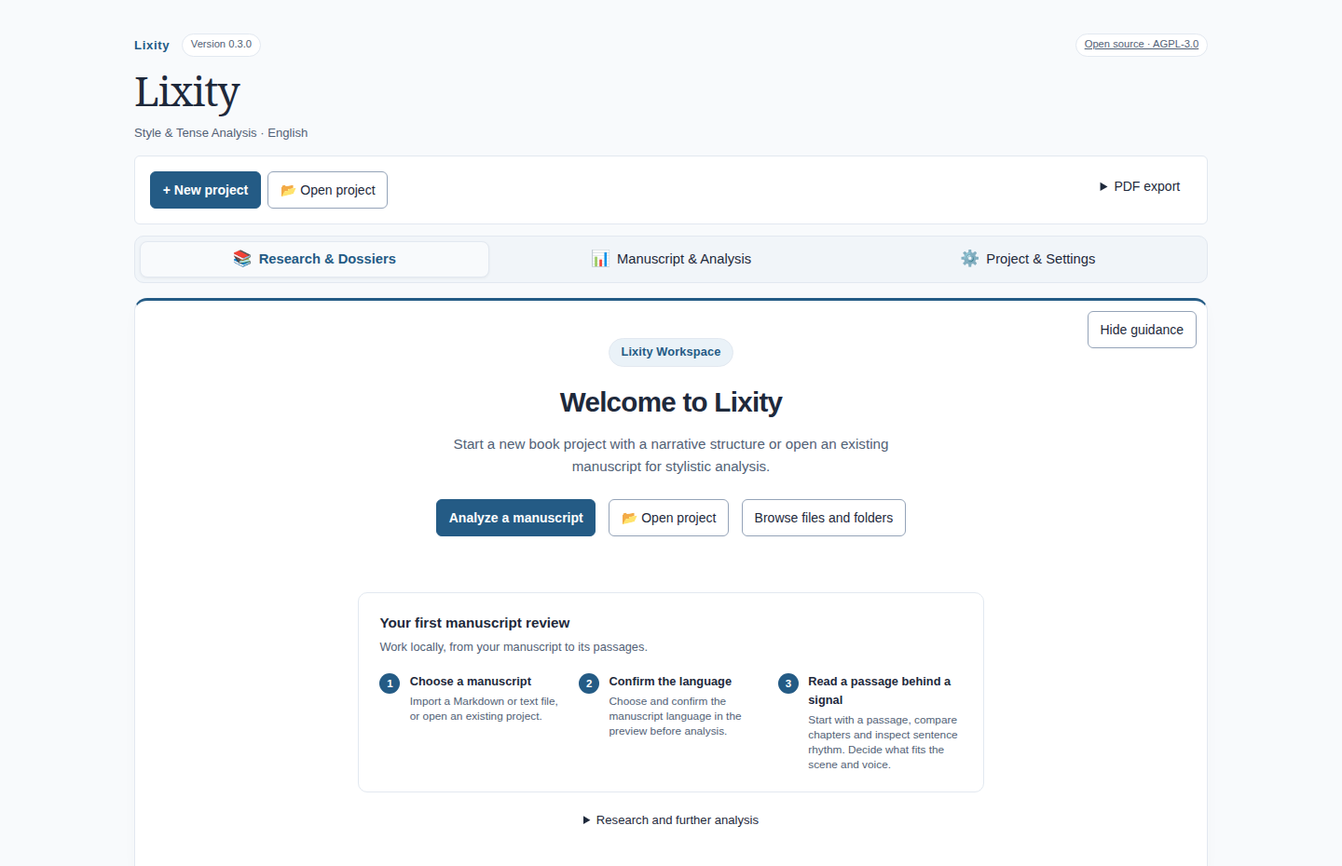
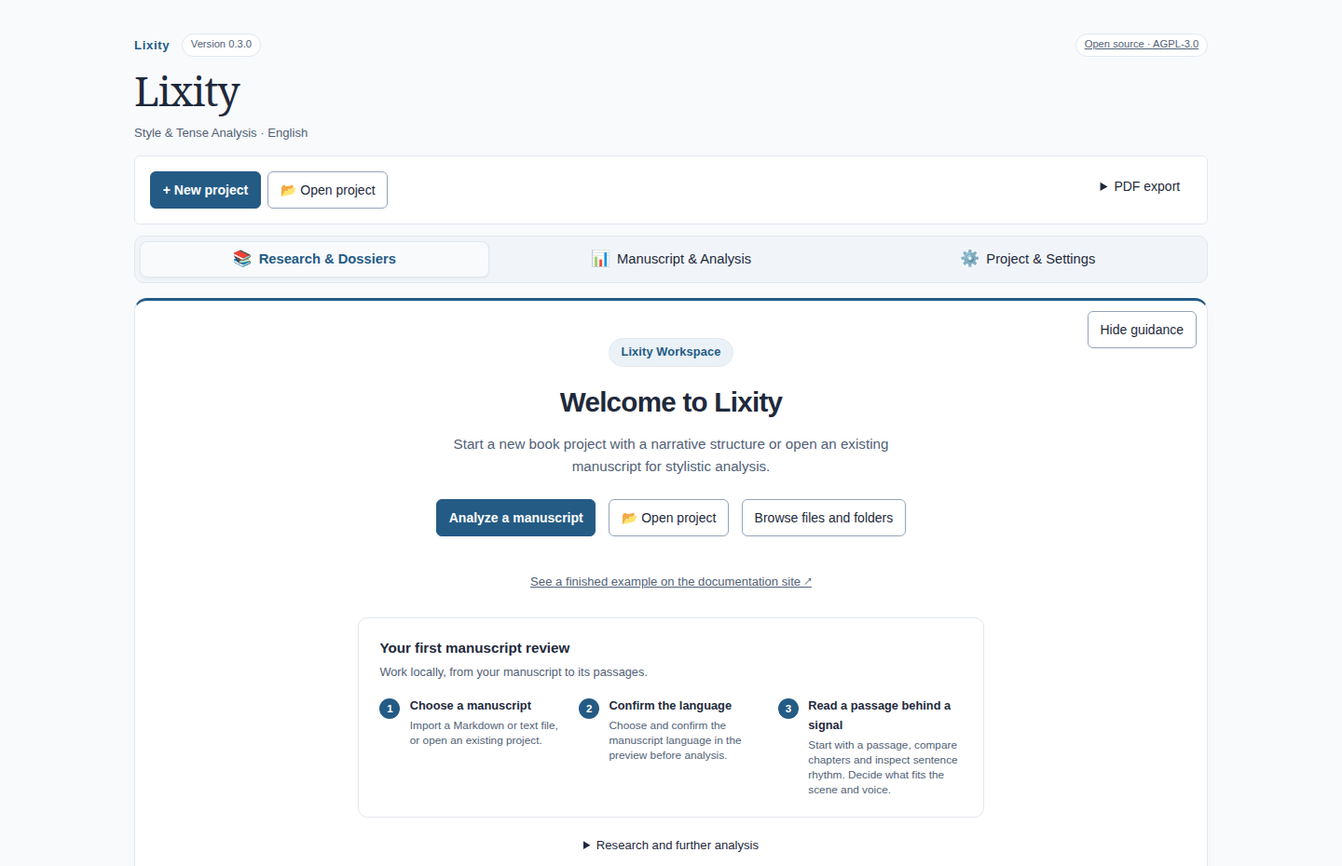
docs: refresh the product presentation and the user journey
- The welcome hero links the matching public-domain example (German or
  English) on the documentation site; standalone read-only reports stay
  link-free.
- ONBOARDING becomes a journey: a stage map, the finished-example stage,
  the editorial loop (flagged passages, values, marker note) and the
  Review-tab manuscript associations; the installation guide lists the
  first-session steps.
- ARCHITECTURE documents the first-run journey contract (reload and
  default view, browser-local recents, link-free standalone reports).
- README, landing page and guides link the complete example PDFs and the
  new walkthrough; guide dates and sitemap lastmod are updated.

Changed region(s): [[0.2812, 0.7172, 0.7188, 0.9355], [0.4375, 0.9355, 0.5625, 0.9978], [0.375, 0.6548, 0.5938, 0.686]]

diff --git a/docs/guides/research-pdf.html b/docs/guides/research-pdf.html
@@ -43,7 +43,7 @@
     "name": "Lixity",
     "url": "https://mfahsold.github.io/lixity/"
   },
-  "dateModified": "2026-10-13",
+  "dateModified": "2026-10-14",
   "license": "https://github.com/mfahsold/lixity/blob/main/LICENSE"
 }
 </script>
@@ -95,7 +95,7 @@
 <a href="../">Lixity · Documentation</a>
 <h1>Keep sources and work with PDFs</h1>
 <p>Keep permitted source copies, cite exact passages and connect them with research notes, claims and writing decisions. Lixity's research workspace is experimental. An import or citation helps you review evidence; it does not establish that a claim is true.</p>
-<p class="updated">Maintained by the Lixity project · Updated <time datetime="2026-10-12">12 October 2026</time></p>
+<p class="updated">Maintained by the Lixity project · Updated <time datetime="2026-10-14">14 October 2026</time></p>
 <nav class="guide-nav" aria-label="Guides"><a href="first-look.html">First look</a><a href="installation.html">Installation</a><a href="interpretation.html">Interpret results</a><a href="manuscript-analysis-tools.html">Compare tools</a><a href="research-pdf.html" aria-current="page">Sources and PDF/OCR</a></nav>
 <div class="notice-box"><strong>Before importing:</strong> Choose the intended project and confirm that you may keep the source bytes. Text PDFs need Poppler; image-only scans need local Tesseract or a configured OCR worker. See <a href="installation.html#install">installation</a> and <a href="#ocr">PDF requirements</a>.</div>
 
@@ -189,7 +189,7 @@ lixity research link urn:uuid:YOUR-PASSAGE-UUID urn:uuid:YOUR-CLAIM-UUID --relat
 
 <h2 id="manuscript-claims">Associate manuscript text with a claim</h2>
 <p><strong>Since v0.3.0:</strong> select text within one opened manuscript paragraph, choose <strong>Link selection to claim</strong>, choose a current claim, permit local retention of the quote and select <strong>Save association</strong>. Previewing writes nothing. Saving keeps a manual association to the exact claim version, with the quote and paragraph anchor; it does not import the complete manuscript or edit prose.</p>
-<p>Exact resolved quotes are marked when their paragraph opens. Changed text or claim versions request review; moved or ambiguous paragraphs remain unresolved. These flags do not establish a contradiction or factual support. Both dossier readers show current linked claims with saved-version history and active saved quote counts. Zero saved links does not establish that a claim is unused in prose.</p>
+<p>Exact resolved quotes are marked when their paragraph opens. Changed text or claim versions request review; moved or ambiguous paragraphs remain unresolved. Saved associations are listed in the research <strong>Review</strong> tab with their anchor state and review flags; listing them never writes or repins. These flags do not establish a contradiction or factual support. Both dossier readers show current linked claims with saved-version history and active saved quote counts. Zero saved links does not establish that a claim is unused in prose.</p>
 <div class="notice-box"><strong>Before the first save:</strong> back up the archive. Retention-confirmed manuscript links opt storage into v7, supported by v0.3.0 but not historical v3.0.1. The lower product number describes development maturity; archive and response schemas keep independent versions. Exported quotes remain private manuscript material. See <a href="../research/USAGE.md#associate-a-manuscript-quote-with-a-claim">anchoring, retention and compatibility</a>.</div>
 <h2 id="ocr">Can Lixity read scanned PDFs?</h2>
 <p>A PDF with selectable text can use local Poppler tools. An image-only scan needs locally installed Tesseract or a configured OCR worker to recognize text. Installing Lixity does not install either engine, download a model or start a worker service.</p>

diff --git a/docs/index.html b/docs/index.html
@@ -176,13 +176,16 @@
     <article class="feature" id="editorial-matrix">
       <div class="feature-copy">
         <h2>Keep review notes beside the text</h2>
-        <p>Inspect paragraphs with their source lines, dialogue and tense labels. Work markers keep notes next to the passage you want to revisit.</p>
-        <p>Markers remain editable in Markdown. Their visibility in a book export depends on the editor or converter you use.</p>
+        <p>Start from the flagged passages list. Open a paragraph to read its measured values, source lines and tense labels, then write a note directly on the passage.</p>
+        <p>Work markers keep notes next to the passage you want to revisit and remain editable in Markdown. Their visibility in a book export depends on the editor or converter you use.</p>
         <a href="USAGE.md#work-markers-editor-visible">Use work markers</a>
       </div>
-      <figure class="shot">
-        <a href="screenshots/dashboard-markers.png"><img src="screenshots/dashboard-markers.png" width="1152" height="306" alt="Review markers linked to passages, with statuses and an editable note" loading="lazy" decoding="async"/></a>
-        <figcaption>Illustrative review notes. <a href="screenshots/dashboard-layer.png">Open the paragraph view</a>.</figcaption>
+      <figure class="shot feature-media">
+        <video autoplay muted loop playsinline preload="metadata" poster="videos/editorial-loop.png" width="1280" height="800" aria-label="Animated walkthrough: flagged passages, an opened paragraph with its measured values and a note written on the passage">
+          <source src="videos/editorial-loop.mp4" type="video/mp4"/>
+        </video>
+        <a class="still-only" href="screenshots/dashboard-editorial.png"><img src="screenshots/dashboard-editorial.png" width="1110" height="226" alt="An opened paragraph with its measured values, source line and the note editor for a work marker" loading="lazy" decoding="async"/></a>
+        <figcaption>Watch the editorial loop: flagged passage, paragraph values, note. <a href="screenshots/dashboard-flags.png">Flagged passages</a> · <a href="screenshots/dashboard-markers.png">Marker list</a> · <a href="screenshots/dashboard-layer.png">Paragraph view</a>.</figcaption>
       </figure>
     </article>
 
@@ -227,6 +230,7 @@
         <p>Export an A4 analysis report, an A5 reading copy or an A4 submission sheet with <code>lixity pdf</code>. Fonts are embedded and the text stays searchable; the renderer provides reading layouts without PDF/X production preflight. <a href="USAGE.md#lixity-pdf">Choose a PDF layout</a>.</p>
         <p><strong>Since v0.3.0:</strong> open the collapsed <strong>PDF export</strong> menu above all three workspace views. Choose a layout, then <strong>Download PDF</strong>. <a href="guides/research-pdf.html#manuscript-export">Find the manuscript PDF workflow</a>.</p>
         <p><strong>Since v0.3.0:</strong> optional <strong>Publication</strong> fields stay collapsed in Project → Settings and feed the same A5 composer as the CLI. Entered imprint text, PDF metadata, bookmarks and page headers help prepare a reading copy. <a href="guides/research-pdf.html#publication">Read the publication workflow and Germany print/digital limits</a>.</p>
+        <p>See a complete report: <a href="examples/effi-briest-report.pdf">Effi Briest</a> and <a href="examples/pride-and-prejudice-report.pdf">Pride and Prejudice</a> ship as public-domain example PDFs next to their interactive dashboards.</p>
         <p>For software integration, use JSON output or the Python API. Both share the dashboard's analysis pipeline.</p>
         <a href="USAGE.md">Browse the command reference</a>
       </div>

diff --git a/docs/guides/installation.html b/docs/guides/installation.html
@@ -43,7 +43,7 @@
     "name": "Lixity",
     "url": "https://mfahsold.github.io/lixity/"
   },
-  "dateModified": "2026-10-13",
+  "dateModified": "2026-10-14",
   "license": "https://github.com/mfahsold/lixity/blob/main/LICENSE"
 }
 </script>
@@ -80,7 +80,7 @@
 <a href="../">Lixity · Documentation</a>
 <h1>Install Lixity and open a manuscript locally</h1>
 <p>Explore sentence rhythm, vocabulary and style patterns in your Markdown manuscript. Lixity runs its analysis on your computer and saves a dashboard you can open in a browser. No account or manuscript upload is required.</p>
-<p class="updated">Maintained by the Lixity project · Updated <time datetime="2026-10-11">11 October 2026</time></p>
+<p class="updated">Maintained by the Lixity project · Updated <time datetime="2026-10-14">14 October 2026</time></p>
 <nav class="guide-nav" aria-label="Guides"><a href="first-look.html">First look</a><a href="installation.html" aria-current="page">Installation</a><a href="interpretation.html">Interpret results</a><a href="manuscript-analysis-tools.html">Compare tools</a><a href="research-pdf.html">Sources and PDF/OCR</a></nav>
 
 <h2 id="requirements">What do I need?</h2>
@@ -102,6 +102,13 @@ lixity service start --open</code></pre>
 
 <h2 id="first-dashboard">Start the workspace</h2>
 <p>The managed app opens <code>http://127.0.0.1:8765/</code>. Its default is an empty workspace; it does not search your terminal's current folder. Choose <strong>Open Project</strong> for an existing folder or <strong>Analyze a manuscript</strong> for an import preview. Confirm the language and read a passage before interpreting its measurements.</p>
+<ol>
+<li>Choose <strong>Analyze a manuscript</strong> (or <strong>New Project</strong>) and confirm the preview: title, analysis language and optional author name.</li>
+<li>Read the <strong>Start your review</strong> panel first: <strong>Open passage</strong>, <strong>Explore chapters</strong> or <strong>Open sentence rhythm</strong>.</li>
+<li>Work from a flagged passage or open any paragraph, expand <strong>Values</strong> and write a marker note if something needs another look.</li>
+<li>Export the result with <strong>PDF export</strong>: A5 reading copy, A4 manuscript sheets or the A4 analysis report.</li>
+</ol>
+<p>The <a href="../ONBOARDING.md">first-session guide</a> describes every stage, and the <a href="https://mfahsold.github.io/lixity/examples/effi-briest.html">public-domain examples</a> show a finished analysis without installation.</p>
 <details><summary>Generate an offline HTML report instead</summary>
 <p>Save this synthetic text as <code>sample.md</code>. Two short chapters are sufficient to exercise the workflow, but not to establish a reliable stylistic baseline.</p>
 <pre><code>## Chapter 1

diff --git a/docs/guides/manuscript-analysis-tools.html b/docs/guides/manuscript-analysis-tools.html
@@ -43,7 +43,7 @@
     "name": "Lixity",
     "url": "https://mfahsold.github.io/lixity/"
   },
-  "dateModified": "2026-10-13",
+  "dateModified": "2026-10-14",
   "license": "https://github.com/mfahsold/lixity/blob/main/LICENSE"
 }
 </script>
@@ -128,7 +128,7 @@
 <a href="../">Lixity · Documentation</a>
 <h1>Which manuscript analysis tool fits your work?</h1>
 <p>Four families of tools answer different questions about a manuscript. This page compares them by workflow: what each is good at, what it does not do, and where Lixity fits. None of them replaces an editor, and none of the descriptions below rank the tools against each other.</p>
-<p class="updated">Maintained by the Lixity project · Updated <time datetime="2026-10-13">13 October 2026</time></p>
+<p class="updated">Maintained by the Lixity project · Updated <time datetime="2026-10-14">14 October 2026</time></p>
 <nav class="guide-nav" aria-label="Guides"><a href="first-look.html">First look</a><a href="installation.html">Installation</a><a href="interpretation.html">Interpret results</a><a href="manuscript-analysis-tools.html" aria-current="page">Compare tools</a><a href="research-pdf.html">Sources and PDF/OCR</a></nav>
 
 <h2 id="families">The four families at a glance</h2>
@@ -161,7 +161,7 @@
 
 <h2 id="lixity">Choose Lixity if…</h2>
 <p>…you want to see how <em>your</em> manuscript behaves over its chapters and keep the evidence next to your decisions: sentence rhythm, vocabulary, dialogue and tense; chapter comparisons against the book's own baseline; passages behind every signal; and a local research archive that ties sources and quotations to claims and writing decisions. Analysis runs on your computer, there is no account, and nothing is uploaded. German and English are the deepest language profiles.</p>
-<p>Start with the <a href="../demo/report.html">read-only example report</a> or the <a href="first-look.html">three-minute first look</a>; no installation is needed for either.</p>
+<p>Start with the <a href="../demo/report.html">read-only example report</a> or the <a href="first-look.html">three-minute first look</a>; no installation is needed for either. For a real book, the <a href="../examples/effi-briest.html">Effi Briest</a> (German) and <a href="../examples/pride-and-prejudice.html">Pride and Prejudice</a> (English) examples pair an interactive excerpt with the complete PDF report.</p>
 
 <h2 id="limits">Where Lixity does not fit</h2>
 <ul>

diff --git a/docs/guides/first-look.html b/docs/guides/first-look.html
@@ -44,7 +44,7 @@
     "name": "Lixity",
     "url": "https://mfahsold.github.io/lixity/"
   },
-  "dateModified": "2026-10-13",
+  "dateModified": "2026-10-14",
   "license": "https://github.com/mfahsold/lixity/blob/main/LICENSE"
 }
 </script>
@@ -81,7 +81,7 @@
 <a href="../">Lixity · Documentation</a>
 <h1>A three-minute first look</h1>
 <p>Follow a chapter contrast back to the text, then make your own editorial decision. This short walkthrough is for authors and editors who want to see what Lixity can help them notice.</p>
-<p class="updated">Maintained by the Lixity project · Updated <time datetime="2026-10-10">10 October 2026</time></p>
+<p class="updated">Maintained by the Lixity project · Updated <time datetime="2026-10-14">14 October 2026</time></p>
 <nav class="guide-nav" aria-label="Guides"><a href="first-look.html" aria-current="page">First look</a><a href="installation.html">Installation</a><a href="interpretation.html">Interpret results</a><a href="manuscript-analysis-tools.html">Compare tools</a><a href="research-pdf.html">Sources and PDF/OCR</a></nav>
 
 <h2 id="maker">Used while writing a debut novel</h2>
@@ -91,6 +91,7 @@
 <p>The report follows six short fictional chapters about a night shift at a river signal house. Description, action, dialogue and a formal incident note give you different kinds of prose to explore.</p>
 <p><a class="btn primary" href="../demo/report.html">Open the example report</a></p>
 <p>This is a read-only report generated by Lixity; its software version is shown in the report header. It accepts no uploads and saves no edits. You can explore it without installing software, starting a server or signing up.</p>
+<p>For a real book, the <a href="../examples/effi-briest.html">Effi Briest example</a> (German, with a <a href="../examples/effi-briest-report.pdf">complete PDF report</a>) and the <a href="../examples/pride-and-prejudice.html">Pride and Prejudice example</a> (English) show the same report on a public-domain novel.</p>
 <p>Enable JavaScript for paragraph expansion, filters and the interactive chart. Paragraph text, chapter tables and links remain readable without it.</p>
 <figure class="walkthrough">
   <video controls muted loop playsinline preload="metadata" poster="../videos/analysis-review.png" width="1280" height="800">

diff --git a/src/lixity/ui/assets/dashboard.css b/src/lixity/ui/assets/dashboard.css
@@ -1365,6 +1365,8 @@ textarea.ctl { font-family: inherit; }
   letter-spacing: -.025em;
   color: var(--fg);
 }
+.welcome-example { margin: .35rem 0 0; font-size: var(--text-small); }
+.welcome-example a { color: var(--muted); text-decoration: underline; }
 .welcome-desc {
   color: var(--muted);
   font-size: .95rem;

diff --git a/src/lixity/workspace_labels.py b/src/lixity/workspace_labels.py
@@ -205,6 +205,7 @@ _ROWS = {
     "welcome_dismiss": ("Hide guidance", "Hinweise ausblenden", "Masquer les conseils", "Ocultar guía", "Nascondi la guida", "Ocultar orientação", "Uitleg verbergen"),
     "welcome_show": ("Show guidance", "Hinweise anzeigen", "Afficher les conseils", "Mostrar guía", "Mostra la guida", "Mostrar orientação", "Uitleg tonen"),
     "welcome_quickstart": ("Your first manuscript review", "Die erste Manuskriptprüfung", "Votre première lecture du manuscrit", "La primera revisión del manuscrito", "La prima revisione del manoscritto", "A primeira revisão do manuscrito", "De eerste manuscriptverkenning"),
+    "welcome_example": ("See a finished example on the documentation site", "Ein fertiges Beispiel auf der Dokumentationsseite ansehen", "Voir un exemple terminé sur le site de documentation", "Ver un ejemplo terminado en el sitio de documentación", "Vedi un esempio completo sul sito di documentazione", "Ver um exemplo completo no site de documentação", "Bekijk een volledig voorbeeld op de documentatiesite"),
     "welcome_local": ("Work locally, from your manuscript to its passages.", "Lokal vom Manuskript zur konkreten Textstelle.", "Travaillez localement, du manuscrit à ses passages.", "Trabaje localmente, del manuscrito a sus pasajes.", "Lavora localmente, dal manoscritto ai suoi passaggi.", "Trabalhe localmente, do manuscrito aos seus trechos.", "Werk lokaal, van het manuscript naar de passages."),
     "welcome_manuscript": ("Choose a manuscript", "Manuskript auswählen", "Choisir un manuscrit", "Elegir un manuscrito", "Scegliere un manoscritto", "Escolher um manuscrito", "Een manuscript kiezen"),
     "welcome_manuscript_desc": ("Import a Markdown or text file, or open an existing project.", "Markdown- oder Textdatei importieren oder ein vorhandenes Projekt öffnen.", "Importez un fichier Markdown ou texte, ou ouvrez un projet existant.", "Importe un archivo Markdown o de texto, o abra un proyecto existente.", "Importa un file Markdown o di testo, oppure apri un progetto esistente.", "Importe um arquivo Markdown ou de texto, ou abra um projeto existente.", "Importeer een Markdown- of tekstbestand, of open een bestaand project."),

diff --git a/src/lixity/ui/dashboard.py b/src/lixity/ui/dashboard.py
@@ -392,6 +392,16 @@ def render_dashboard(
                 f'      <button type="button" class="ctl welcome-btn" id="hero-btn-browse-project">{L("wizard_choose_action")}</button>'
             )
             parts.append("    </div>")
+            # The public examples lower the barrier of the first step: they show a
+            # finished report without importing a manuscript. The analysis
+            # language selects the matching public-domain book.
+            example = ("examples/effi-briest.html" if language_key == "de"
+                       else "examples/pride-and-prejudice.html")
+            parts.append(
+                '    <p class="welcome-example"><a href='
+                f'"https://mfahsold.github.io/lixity/{example}" target="_blank" rel="noopener">'
+                f'{L("welcome_example")} ↗</a></p>'
+            )
             parts.append(
                 '    <section id="welcome-project-recent" data-recent-projects hidden aria-labelledby="welcome-project-recent-heading">'
             )

diff --git a/tests/test_localization.py b/tests/test_localization.py
@@ -94,6 +94,7 @@ class TestLocalization(unittest.TestCase):
                 )
                 self.assertEqual(parser.labels["ctx_provenance_note"], labels["ctx_provenance_note"])
                 for key in ("research_tab_claims", "wizard_import_tab", "wizard_open_note",
+                    "welcome_example",
                             "wizard_choose_action", "welcome_dismiss", "welcome_show"):
                     self.assertTrue(escape(labels[key]) in rendered, key)
                 self.assertIn(f'<p class="ctl-note">{escape(labels["wizard_choose_location"])}</p>', rendered)

diff --git a/README.md b/README.md
@@ -30,8 +30,12 @@ results in German, English, French, Spanish, Italian, Portuguese or Dutch.
 No statistics background is needed, and nothing is uploaded: analysis runs on
 your computer.
 
-1. **Look at the example.** The [read-only report](https://mfahsold.github.io/lixity/demo/report.html)
-   opens directly in the browser and is made from invented text.
+1. **Look at an example.** The [read-only synthetic report](https://mfahsold.github.io/lixity/demo/report.html)
+   opens directly in the browser and is made from invented text. For real books,
+   the [Effi Briest example](https://mfahsold.github.io/lixity/examples/effi-briest.html)
+   (German) and the [Pride and Prejudice example](https://mfahsold.github.io/lixity/examples/pride-and-prejudice.html)
+   (English) show an interactive excerpt of a public-domain novel next to its
+   complete PDF report.
 2. **See what the numbers mean.** The [three-minute first look](https://mfahsold.github.io/lixity/guides/first-look.html)
    walks through chapter comparison, a passage and its measurements.
 3. **Install Lixity** when you want to analyze your own manuscript (next section).
@@ -110,9 +114,13 @@ measurements unavailable. [Scene example](docs/screenshots/dashboard-scenes.png)
 analysis report, an A5 reading layout, or a submission sheet of 30 lines of 60
 characters. Fonts are embedded as subsets, with searchable text for Unicode
 characters covered by the selected fonts. No converter, no upload, no added
-runtime dependency. These are reading and review layouts; PDF/X production
-preflight and automatic fallback between fonts are not provided.
-[Command reference](docs/USAGE.md#lixity-pdf).
+runtime dependency. The A4 report opens with a cover page and sets its figures
+as aligned tables with a repeated header row. These are reading and review
+layouts; PDF/X production preflight and automatic fallback between fonts are
+not provided. [Command reference](docs/USAGE.md#lixity-pdf).
+
+See the complete output: [Effi Briest report](https://mfahsold.github.io/lixity/examples/effi-briest-report.pdf) ·
+[Pride and Prejudice report](https://mfahsold.github.io/lixity/examples/pride-and-prejudice-report.pdf).
 
 In the app, **PDF export** in the global project controls offers **A5 reading
 copy** (default), **A4 manuscript sheets** or **A4 analysis report**; the menu
@@ -126,13 +134,18 @@ PDFs, without EPUB, PDF/UA or PDF/X certification. See
 
 ### Keep review notes beside the text
 
-Inspect paragraphs with their source lines, dialogue and tense labels. Work
-markers keep review notes next to the relevant passage in Markdown. Their
+Start from the flagged passages list, open a paragraph and read its measured
+values, source lines and tense labels. A note can be written directly on the
+passage; work markers keep it next to the relevant text in Markdown. Their
 visibility in a book export depends on the editor or converter you use.
+
+<img src="docs/videos/editorial-loop.gif" alt="Walkthrough: review flagged passages, open a paragraph, read its values and write a marker note on the passage" width="900" />
 
 <a href="docs/screenshots/dashboard-markers.png"><img src="docs/screenshots/dashboard-markers.png" alt="Review markers linked to passages, with statuses and an editable note" width="900" /></a>
 
 [Work-marker instructions](docs/USAGE.md#work-markers-editor-visible) ·
+[Flagged passages](docs/screenshots/dashboard-flags.png) ·
+[Note on a passage](docs/screenshots/dashboard-editorial.png) ·
 [Paragraph view](docs/screenshots/dashboard-layer.png)
 
 ### Connect sources, claims and decisions
@@ -155,7 +168,10 @@ chosen notes beside the manuscript.
 
 **Review** shows the records explicitly linked to a decision and whether those
 links refer to an older version. You can inspect the earlier and current
-versions before deciding to update a link. Related dossier edits can be
+versions before deciding to update a link. Saved manuscript associations—a
+selected quote linked to a claim—appear in the same tab with their anchor state
+and review flags; a moved or changed anchor stays unresolved and is never
+repinned silently. Related dossier edits can be
 previewed and saved together; if another edit conflicts, the preview helps you
 resolve it while preserving your draft.
 
@@ -253,6 +269,8 @@ language. Mathematical identifiers and numeric JSON values are language-neutral.
 
 - [Read-only example report](https://mfahsold.github.io/lixity/demo/report.html) —
   the features in a browser, with invented text.
+- [Public-domain examples](https://mfahsold.github.io/lixity/examples/effi-briest.html) —
+  Effi Briest (German) and Pride and Prejudice (English), each with a complete PDF report.
 - [Three-minute first look](https://mfahsold.github.io/lixity/guides/first-look.html)
   — chapter comparison, one passage and its measurements.
 - [Install and open a project](https://mfahsold.github.io/lixity/guides/installation.html)

diff --git a/docs/ONBOARDING.md b/docs/ONBOARDING.md
@@ -8,6 +8,30 @@ Install Lixity using the [installation guide](INSTALLATION.md). Lixity is open
 source under AGPL-3.0-or-later, so any writing purpose — private, research or
 commercial — needs no extra permission; see [Licensing](LICENSING.md).
 
+## The journey at a glance
+
+| Stage | Where it happens | Continue with |
+| --- | --- | --- |
+| See a finished example | Browser, no installation | [Read-only demo](https://mfahsold.github.io/lixity/demo/report.html) · [Effi Briest](https://mfahsold.github.io/lixity/examples/effi-briest.html) · [Pride and Prejudice](https://mfahsold.github.io/lixity/examples/pride-and-prejudice.html) |
+| Install and start | Terminal, then the local browser | [Installation guide](INSTALLATION.md) · [Use the interactive workspace](#use-the-interactive-workspace) |
+| Choose a project | Welcome screen or workspace bar | [Choose your starting point](#choose-your-starting-point) · [Open or import?](#open-or-import) |
+| First analysis | **Manuscript & Analysis** | [Read and explore](#read-and-explore) |
+| Review notes | Flagged passages and paragraphs | [Work through review notes](#work-through-review-notes) |
+| Research | **Research & Dossiers** | [Research workflow](#research-workflow) |
+| Export and return | PDF export, then restart later | [Check your first session and return later](#check-your-first-session-and-return-later) |
+
+## See a finished example first
+
+Two public-domain novels are published as finished analyses: the
+[Effi Briest example](https://mfahsold.github.io/lixity/examples/effi-briest.html)
+(German) and the
+[Pride and Prejudice example](https://mfahsold.github.io/lixity/examples/pride-and-prejudice.html)
+(English) each pair an interactive excerpt with a complete PDF report. Both run
+in the browser without installation; nothing is uploaded and nothing is saved
+there. The [read-only synthetic demo](https://mfahsold.github.io/lixity/demo/report.html)
+stays the smallest introduction. The local app's welcome screen links the
+example that matches its analysis language.
+
 ## Choose your starting point
 
 | What you want to do | Start here |
@@ -135,6 +159,26 @@ it does not edit prose or establish who wrote the text.
 Book-specific publication and delivery integrations belong to project adapters;
 the shared manuscript PDF layouts are described in the [PDF reference](USAGE.md#lixity-pdf).
 
+## Work through review notes
+
+The editorial loop starts where the measurements point and ends in the
+manuscript:
+
+1. Open the flagged passages list (or any paragraph) and read the excerpt it
+   shows.
+2. Open the paragraph. The text comes first; expand **Values** for source
+   lines, tense labels and the compact measurement line.
+3. Use the marker buttons (**Check**, **Fact-check**, **To-do**, **Attention**)
+   to write a note directly on the passage. Nothing is saved until you choose
+   **Save marker**; cancelling leaves the text unchanged.
+4. Saved markers live as Markdown comments above their paragraph and stay
+   visible in the marker list. Their visibility in a book export depends on the
+   editor or converter you use.
+
+Markers are your decisions: the analysis neither rewrites prose nor resolves a
+flagged passage. See [work markers](USAGE.md#work-markers-editor-visible) and the
+[editorial-loop walkthrough](https://mfahsold.github.io/lixity/#editorial-matrix).
+
 ## Research workflow
 
 The research workspace is experimental. It keeps sources, quotations and authored
@@ -224,6 +268,11 @@ form and select **Find source passage**. Search, read a result, choose **Use for
 claim**, then review its full retained paragraph and save the evidence relation.
 A keyword match or causal interpretation does not verify a claim. A changed
 reviewed context requires another review before saving.
+
+Saved manuscript associations—a selected quote linked to a claim—are listed in
+the research **Review** tab with their anchor state and review flags. A moved,
+changed or ambiguous anchor stays unresolved and is never repinned silently;
+listing them never writes.
 
 See [Research usage](research/USAGE.md) for batch import, claim and decision
 commands, backups and archive limits.

diff --git a/docs/guides/research-pdf.html.md b/docs/guides/research-pdf.html.md
@@ -2,7 +2,7 @@
 
 Keep permitted source copies, cite exact passages and connect them with research notes, claims and writing decisions. Lixity's research workspace is experimental. An import or citation helps you review evidence; it does not establish that a claim is true.
 
-Maintained by the Lixity project · Updated 12 October 2026
+Maintained by the Lixity project · Updated 14 October 2026
 
 **Before importing:**
 
@@ -156,7 +156,7 @@ Replace the placeholders with full returned IDs, passage first and claim second.
 
 **Since v0.3.0:** select text within one opened manuscript paragraph, choose **Link selection to claim**, choose a current claim, permit local retention of the quote and select **Save association**. Previewing writes nothing. Saving keeps a manual association to the exact claim version, with the quote and paragraph anchor; it does not import the complete manuscript or edit prose.
 
-Exact resolved quotes are marked when their paragraph opens. Changed text or claim versions request review; moved or ambiguous paragraphs remain unresolved. These flags do not establish a contradiction or factual support. Both dossier readers show current linked claims with saved-version history and active saved quote counts. Zero saved links does not establish that a claim is unused in prose.
+Exact resolved quotes are marked when their paragraph opens. Changed text or claim versions request review; moved or ambiguous paragraphs remain unresolved. Saved associations are listed in the research **Review** tab with their anchor state and review flags; listing them never writes or repins. These flags do not establish a contradiction or factual support. Both dossier readers show current linked claims with saved-version history and active saved quote counts. Zero saved links does not establish that a claim is unused in prose.
 
 **Before the first save:**
 
